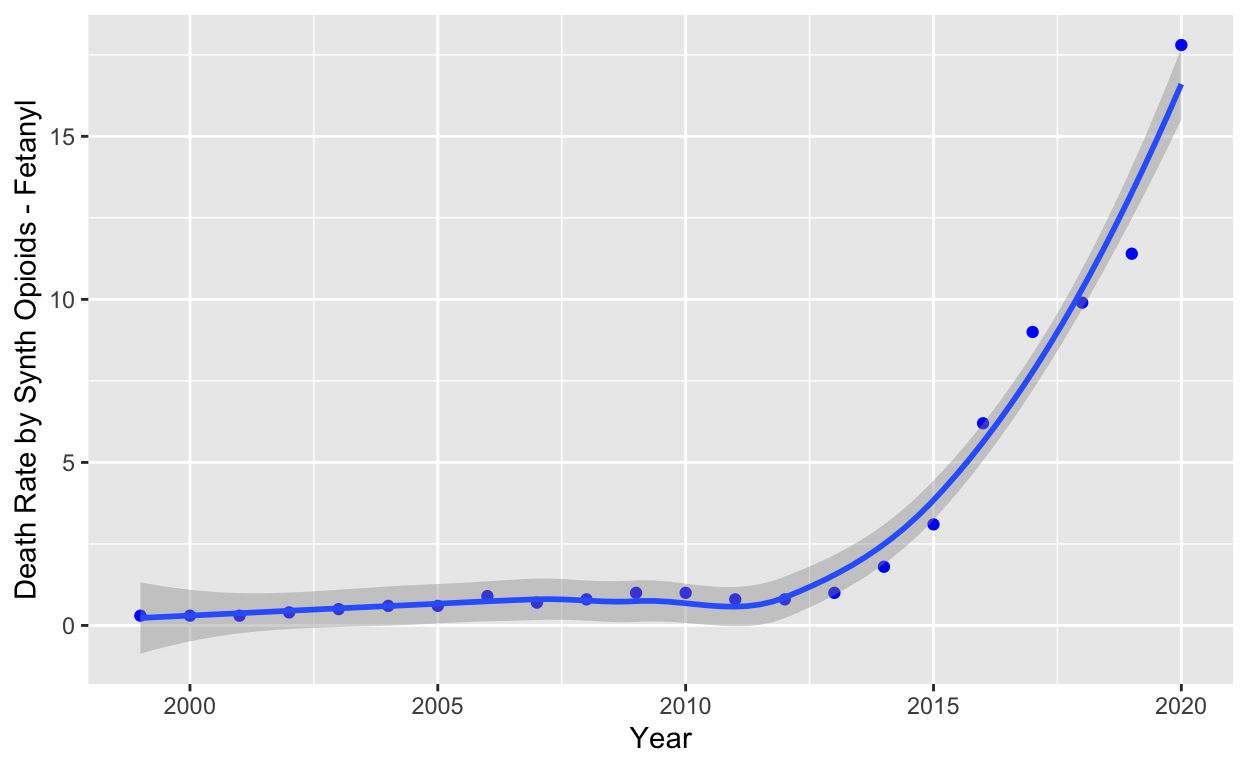
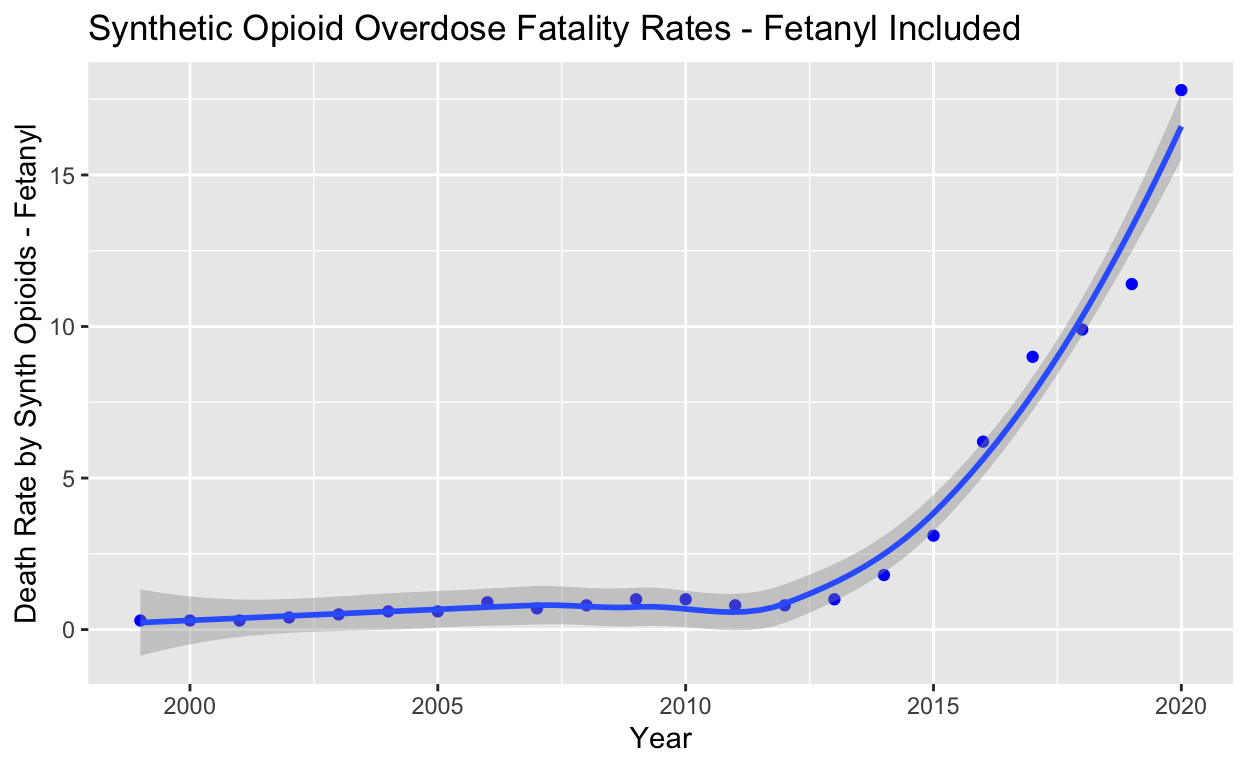
milestone 4

Changed region(s): [[0.0, 0.0, 1.0, 0.8438]]

diff --git a/index.html b/index.html
@@ -115,7 +115,7 @@ code span.wa { color: #5e5e5e; font-style: italic; } /* Warning */
   <!--/radix_placeholder_rmarkdown_metadata-->
   
   <script type="text/json" id="radix-resource-manifest">
-  {"type":"character","attributes":{},"value":["index_files/anchor-4.2.2/anchor.min.js","index_files/bowser-1.9.3/bowser.min.js","index_files/distill-2.2.21/template.v2.js","index_files/figure-html5/unnamed-chunk-2-1.png","index_files/header-attrs-2.17/header-attrs.js","index_files/header-attrs-2.24/header-attrs.js","index_files/jquery-3.6.0/jquery-3.6.0.js","index_files/jquery-3.6.0/jquery-3.6.0.min.js","index_files/jquery-3.6.0/jquery-3.6.0.min.map","index_files/popper-2.6.0/popper.min.js","index_files/tippy-6.2.7/tippy-bundle.umd.min.js","index_files/tippy-6.2.7/tippy-light-border.css","index_files/tippy-6.2.7/tippy.css","index_files/tippy-6.2.7/tippy.umd.min.js","index_files/webcomponents-2.0.0/webcomponents.js"]}
+  {"type":"character","attributes":{},"value":["index_files/anchor-4.2.2/anchor.min.js","index_files/bowser-1.9.3/bowser.min.js","index_files/distill-2.2.21/template.v2.js","index_files/figure-html5/unnamed-chunk-2-1.png","index_files/figure-html5/unnamed-chunk-3-1.png","index_files/header-attrs-2.17/header-attrs.js","index_files/header-attrs-2.24/header-attrs.js","index_files/jquery-3.6.0/jquery-3.6.0.js","index_files/jquery-3.6.0/jquery-3.6.0.min.js","index_files/jquery-3.6.0/jquery-3.6.0.min.map","index_files/popper-2.6.0/popper.min.js","index_files/tippy-6.2.7/tippy-bundle.umd.min.js","index_files/tippy-6.2.7/tippy-light-border.css","index_files/tippy-6.2.7/tippy.css","index_files/tippy-6.2.7/tippy.umd.min.js","index_files/webcomponents-2.0.0/webcomponents.js"]}
   </script>
   <!--radix_placeholder_navigation_in_header-->
   <!--/radix_placeholder_navigation_in_header-->
@@ -1554,12 +1554,29 @@ code span.wa { color: #5e5e5e; font-style: italic; } /* Warning */
 <span>  <span class='fu'><a href='https://ggplot2.tidyverse.org/reference/geom_point.html'>geom_point</a></span><span class='op'>(</span>color <span class='op'>=</span> <span class='st'>"blue"</span><span class='op'>)</span> <span class='op'>+</span></span>
 <span>  <span class='fu'><a href='https://ggplot2.tidyverse.org/reference/geom_smooth.html'>geom_smooth</a></span><span class='op'>(</span><span class='op'>)</span> <span class='op'>+</span></span>
 <span>  <span class='fu'><a href='https://ggplot2.tidyverse.org/reference/labs.html'>labs</a></span><span class='op'>(</span>x <span class='op'>=</span> <span class='st'>"Year"</span>,</span>
-<span>       y <span class='op'>=</span> <span class='st'>"Death Rate by Synth Opioids - Fetanyl"</span><span class='op'>)</span></span>
+<span>       y <span class='op'>=</span> <span class='st'>"Death Rate by Synth Opioids - Fetanyl"</span>,</span>
+<span>       title <span class='op'>=</span> <span class='st'>"Synthetic Opioid Overdose Fatality Rates - Fetanyl Included"</span><span class='op'>)</span></span>
 <span></span>
 <span><span class='va'>milestone_3</span></span></code></pre>
 </div>
 <p><img src="index_files/figure-html5/unnamed-chunk-2-1.png" width="624" /></p>
 </div>
+<div class="layout-chunk" data-layout="l-body">
+<div class="sourceCode">
+<pre class="sourceCode r"><code class="sourceCode r"><span><span class='va'>milestone_4</span> <span class='op'>&lt;-</span> <span class='fu'><a href='https://ggplot2.tidyverse.org/reference/ggplot.html'>ggplot</a></span><span class='op'>(</span>data <span class='op'>=</span> <span class='va'>overdoseRates</span>,</span>
+<span>       mapping <span class='op'>=</span> <span class='fu'><a href='https://ggplot2.tidyverse.org/reference/aes.html'>aes</a></span><span class='op'>(</span>x <span class='op'>=</span> <span class='va'>Year</span>,</span>
+<span>                     y <span class='op'>=</span> <span class='va'>heroin</span><span class='op'>)</span><span class='op'>)</span> <span class='op'>+</span></span>
+<span>  <span class='fu'><a href='https://ggplot2.tidyverse.org/reference/geom_point.html'>geom_point</a></span><span class='op'>(</span>color <span class='op'>=</span> <span class='st'>"red"</span><span class='op'>)</span> <span class='op'>+</span></span>
+<span>  <span class='fu'><a href='https://ggplot2.tidyverse.org/reference/geom_smooth.html'>geom_smooth</a></span><span class='op'>(</span>color <span class='op'>=</span> <span class='st'>"red"</span><span class='op'>)</span> <span class='op'>+</span></span>
+<span>  <span class='fu'><a href='https://ggplot2.tidyverse.org/reference/labs.html'>labs</a></span><span class='op'>(</span>x <span class='op'>=</span> <span class='st'>"Year"</span>,</span>
+<span>       y <span class='op'>=</span> <span class='st'>"Death Rate by Heroin"</span>,</span>
+<span>       title <span class='op'>=</span> <span class='st'>"Heroin Overdose Fatality Rates"</span><span class='op'>)</span></span>
+<span></span>
+<span><span class='va'>milestone_4</span></span></code></pre>
+</div>
+<p><img src="index_files/figure-html5/unnamed-chunk-3-1.png" width="624" /></p>
+</div>
+<h2 id="as-seen-in-the-graphs-above-fatal-heroin-overdose-rates-begin-to-drastically-increase-around-2010-peaking-around-2019.-but-in-2020-heroin-overdose-fatality-rates-began-to-decline.-it-wasnt-until-2015-however-that-the-deaths-of-synthetic-opioids-began-to-drastically-increase-continuing-to-surge-in-2020-without-show-of-stopping.">As seen in the graphs above, fatal heroin overdose rates begin to drastically increase around 2010, peaking around 2019. But in 2020, heroin overdose fatality rates began to decline. It wasn’t until 2015, however, that the deaths of synthetic opioids began to drastically increase, continuing to surge in 2020 without show of stopping.</h2>
 <div class="sourceCode" id="cb2"><pre class="sourceCode r distill-force-highlighting-css"><code class="sourceCode r"></code></pre></div>
 <!--radix_placeholder_article_footer-->
 <!--/radix_placeholder_article_footer-->
